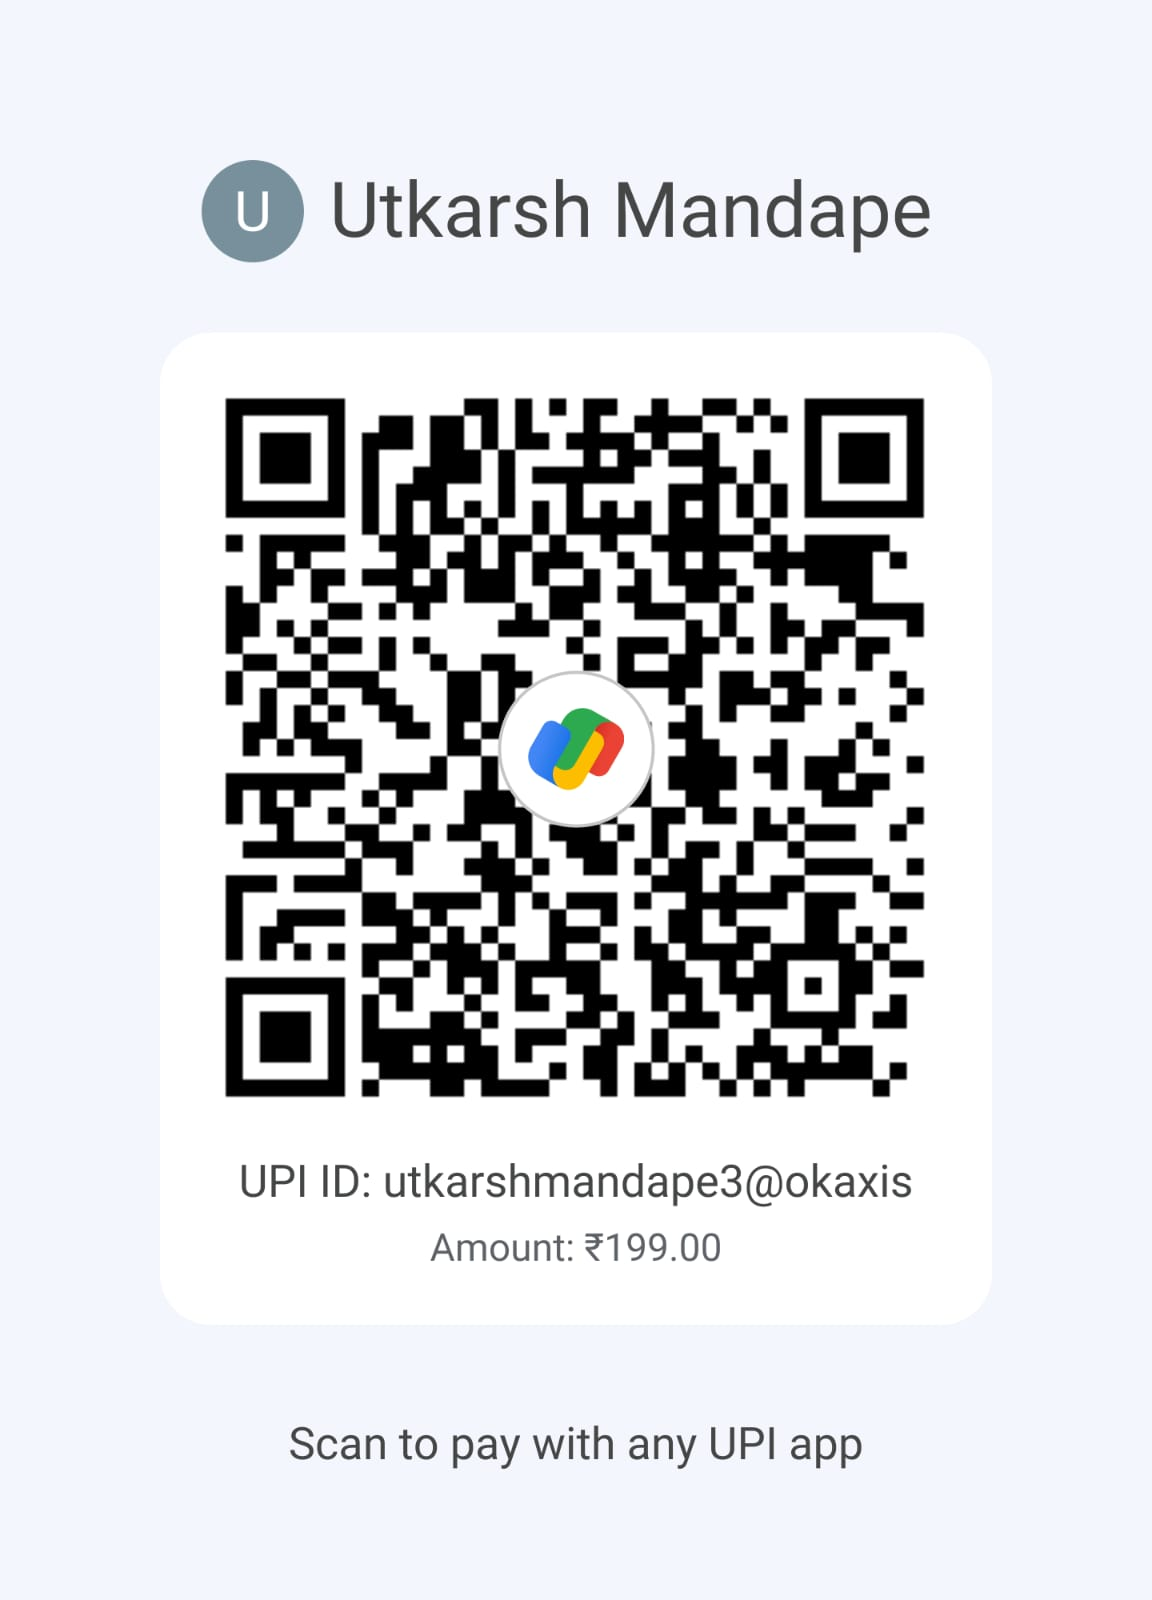
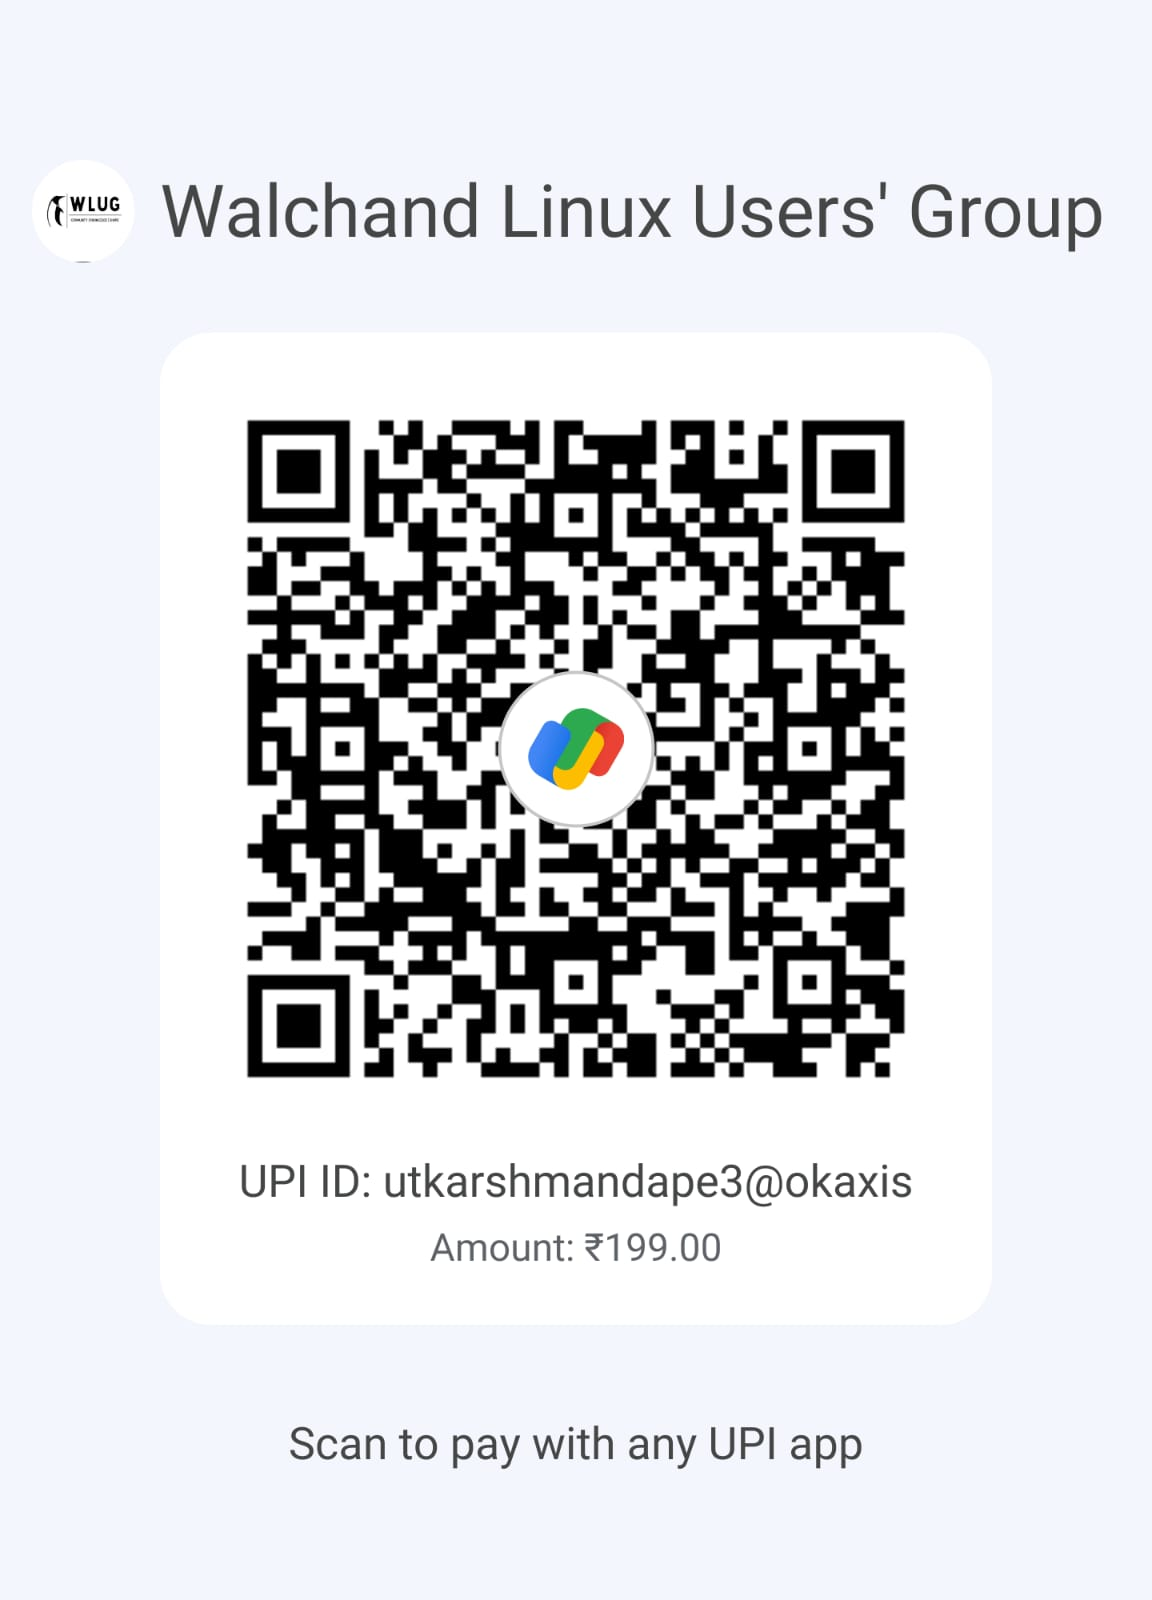
qr updated

Changed region(s): [[0.1875, 0.25, 0.8125, 0.6875], [0.125, 0.0938, 0.9688, 0.1875], [0.0312, 0.125, 0.0938, 0.1562]]

diff --git a/index.html b/index.html
@@ -384,7 +384,7 @@
                   <div class="qr">
                     <img
                       id="golangQR"
-                      src="datta1.jpeg"
+                      src="utkarsh199.jpeg"
                       alt="Golang QR Code"
                       style="display: none"
                     />
@@ -392,7 +392,7 @@
                   <div class="qr">
                     <img
                       id="dockerQR"
-                      src="datta1.jpeg"
+                      src="utkarsh199.jpeg"
                       alt="Docker QR Code"
                       style="display: none"
                     />
@@ -400,7 +400,7 @@
                   <div class="qr">
                     <img
                       id="bothQR"
-                      src="datta2.jpeg"
+                      src="utkarsh299.jpeg"
                       alt="Both QR Code"
                       style="display: none"
                     />
